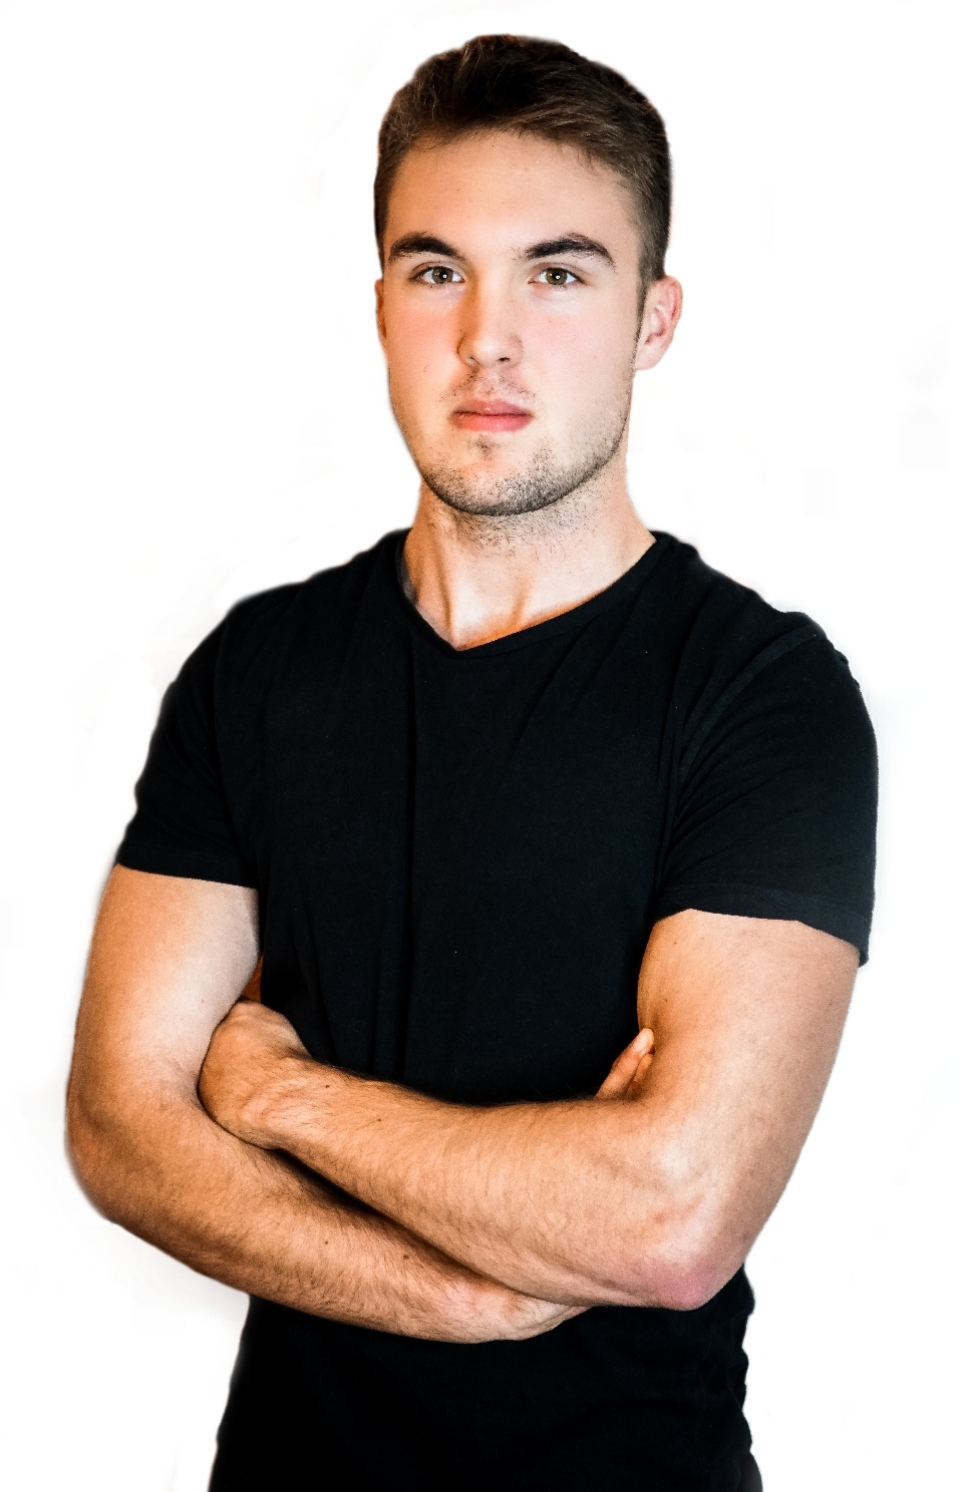
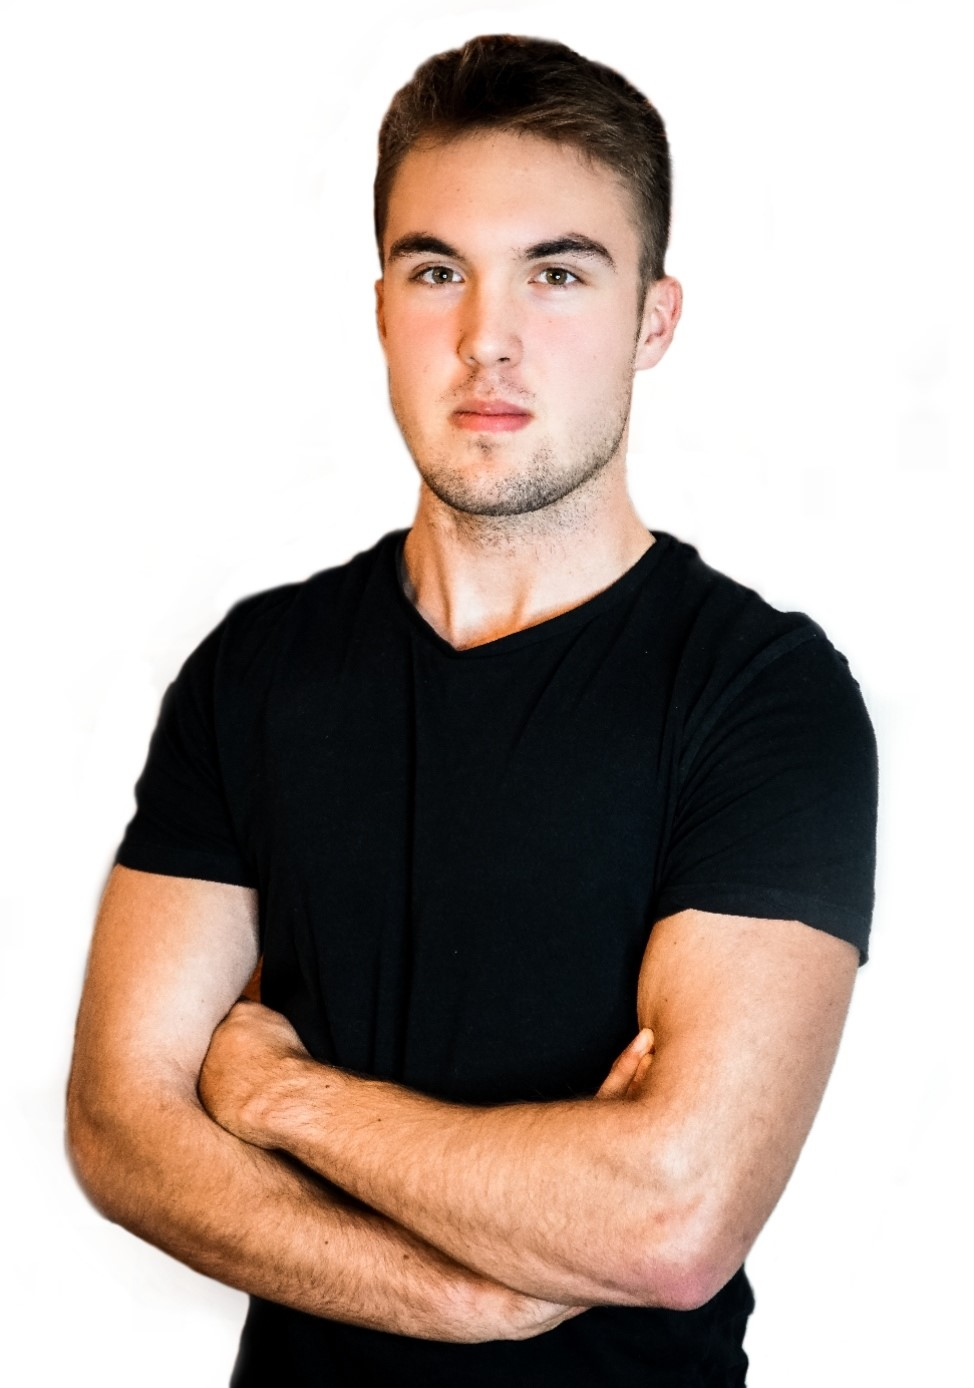
styling

Changed region(s): [[0.0616, 0.0, 0.924, 1.0]]

diff --git a/PortfolioAleksy/src/App.jsx b/PortfolioAleksy/src/App.jsx
@@ -46,7 +46,7 @@ function App() {
 
   return (
     <div className="App">
-      <div>
+      <div style={{ width: "100%" }}>
         <div
           className="navbar"
           style={{
@@ -85,15 +85,16 @@ function App() {
             </ul>
           </nav>
         </div>
-        <div className="part1">
+        <div className="part1" style={{ height: "500px" }}>
           <div
             className="presentation"
-            style={{ width: "100%", display: "flex" }}
+            style={{ width: "100%", display: "flex", justifyContent: "center" }}
           >
             <div className="mepart" style={{ color: "black", width: "50%" }}>
               <br></br>
               <br />
-
+              <br></br>
+              <br></br>
               <h1>Hi, I am</h1>
 
               <h1 style={{ fontSize: "2.9rem" }}>Aleksy Lisowski</h1>
@@ -124,12 +125,18 @@ function App() {
                 </div>
               </div>
             </div>
-            <div className="imagepart">
+            <div
+              className="imagepart"
+              style={{ display: "flex", justifyContent: "center" }}
+            >
               <img
                 src={Aleksy2}
                 style={{
                   height: "500px",
+                  width: "390px",
                   position: "relative",
+                  marginBottom: "0",
+                  bottom: "0",
                 }}
               ></img>
             </div>
@@ -147,73 +154,73 @@ function App() {
         <Element name="section4" className="element">
           <Contactme />
         </Element>
-      </div>
-      <footer
-        style={{
-          width: "100%",
-          backgroundColor: "black",
-          height: "160px",
-          marginTop: "20px",
-          paddingTop: "10px",
-        }}
-      >
-        {isVisible && (
-          <div
-            onClick={scrollToTop}
-            style={{ color: "white", backgroundColor: "black" }}
-          >
-            <div>
-              <UpArrow />
-            </div>
-            <div>Back to Top</div>
-          </div>
-        )}
-        <div
+        <footer
           style={{
-            gap: "20px",
-            paddingTop: "20px",
-            paddingBottom: "10px",
-            display: "flex",
-            justifyContent: "center",
-            alignItems: "center",
+            width: "100%",
+            backgroundColor: "black",
+            height: "160px",
+            marginTop: "20px",
+            paddingTop: "10px",
           }}
         >
-          <div>
-            <a href="https://www.facebook.com/aleksyyyyy/">
-              <Facebook />
-            </a>
+          {isVisible && (
+            <div
+              onClick={scrollToTop}
+              style={{ color: "white", backgroundColor: "black" }}
+            >
+              <div>
+                <UpArrow />
+              </div>
+              <div>Back to Top</div>
+            </div>
+          )}
+          <div
+            style={{
+              gap: "20px",
+              paddingTop: "20px",
+              paddingBottom: "10px",
+              display: "flex",
+              justifyContent: "center",
+              alignItems: "center",
+            }}
+          >
+            <div>
+              <a href="https://www.facebook.com/aleksyyyyy/">
+                <Facebook />
+              </a>
+            </div>
+            <div>
+              <a href="https://www.linkedin.com/in/aleksy-undefined-90b128268/">
+                <Linked />
+              </a>
+            </div>
+            <div>
+              <a href="https://www.instagram.com/aleksylisowski/">
+                <Instagram />
+              </a>
+            </div>
+            <div>
+              <a href="mailto:aleksylisowski@gmail.com">
+                <Email />
+              </a>
+            </div>
+            <div>
+              <a href="https://github.com/psychologianauki">
+                <Github />
+              </a>
+            </div>
           </div>
-          <div>
-            <a href="https://www.linkedin.com/in/aleksy-undefined-90b128268/">
-              <Linked />
-            </a>
+          <div style={{ color: "gray", fontSize: "0.6rem" }}>
+            Inspirated this figma design
+            https://www.figma.com/file/CfVAmzcJQVlKq1men62GTz/Portfolio---Tomasz-Gajda-(Community)?node-id=43-44&t=ojJI788Qz7OdnhoA-0
+            <br></br>
+            <a href="https://pl.freepik.com/darmowe-zdjecie/gory-vestrahorn-w-stokksnes-na-islandii_11769004.htm#query=krajobraz&position=2&from_view=keyword&track=sph">
+              Obraz autorstwa tawatchai07
+            </a>{" "}
+            na Freepik
           </div>
-          <div>
-            <a href="https://www.instagram.com/aleksylisowski/">
-              <Instagram />
-            </a>
-          </div>
-          <div>
-            <a href="mailto:aleksylisowski@gmail.com">
-              <Email />
-            </a>
-          </div>
-          <div>
-            <a href="https://github.com/psychologianauki">
-              <Github />
-            </a>
-          </div>
-        </div>
-        <div style={{ color: "gray", fontSize: "0.6rem" }}>
-          Inspirated this figma design
-          https://www.figma.com/file/CfVAmzcJQVlKq1men62GTz/Portfolio---Tomasz-Gajda-(Community)?node-id=43-44&t=ojJI788Qz7OdnhoA-0
-          <br></br>
-          <a href="https://pl.freepik.com/darmowe-zdjecie/gory-vestrahorn-w-stokksnes-na-islandii_11769004.htm#query=krajobraz&position=2&from_view=keyword&track=sph">
-            Obraz autorstwa tawatchai07
-          </a>{" "}
-          na Freepik
-        </div>
-      </footer>
+        </footer>
+      </div>
     </div>
   );
 }

diff --git a/PortfolioAleksy/src/App.css b/PortfolioAleksy/src/App.css
@@ -7,15 +7,21 @@
 body {
   /* background-image: url("./assets/image/background6.avif");
   background-size: cover; */
-  background-color: whitesmoke;
+  background-color: black;
   height: 100%;
-  width: 100vw;
+  width: 100%;
   font-family: "Lato", sans-serif;
+  overflow-x: hidden;
 }
 .App {
-  background-color: whitesmoke;
+  background: linear-gradient(to right, #ccc, #fff, #ccc);
   border: 4px solid black;
   height: 100%;
+  width: 100%;
+  display: flex;
+  align-items: center;
+  margin: 0;
+  overflow: hidden;
 }
 /* .navbar {  
   display: flex;
@@ -27,7 +33,7 @@ ul {
   justify-content: flex-end;
   gap: 40px;
   list-style: none;
-  margin-right: 20px;
+  margin-right: 30px;
 }
 li {
   font-size: 1.6rem;
@@ -50,7 +56,8 @@ li {
 }
 .part1 {
   /* background: linear-gradient(to right, black 50%, white 50%); */
-  background-color: white;
+  background: linear-gradient(to right, #ccc, #fff, #fff);
+  border-bottom: 4px solid black;
 }
 .forminput {
   border-left: 4px solid black;
@@ -71,9 +78,6 @@ li {
 .overlay3 {
   position: absolute; /* positions the overlay relative to the container */
   top: 0;
-
-  height: 100%;
-  width: 100%;
 }
 .skillsdiv1,
 .skillsdiv2,
@@ -92,6 +96,7 @@ li {
   padding-left: 5px;
   padding-right: 5px;
 }
+
 @media (max-width: 680px) {
   .skillsdiv1,
   .skillsdiv2,
